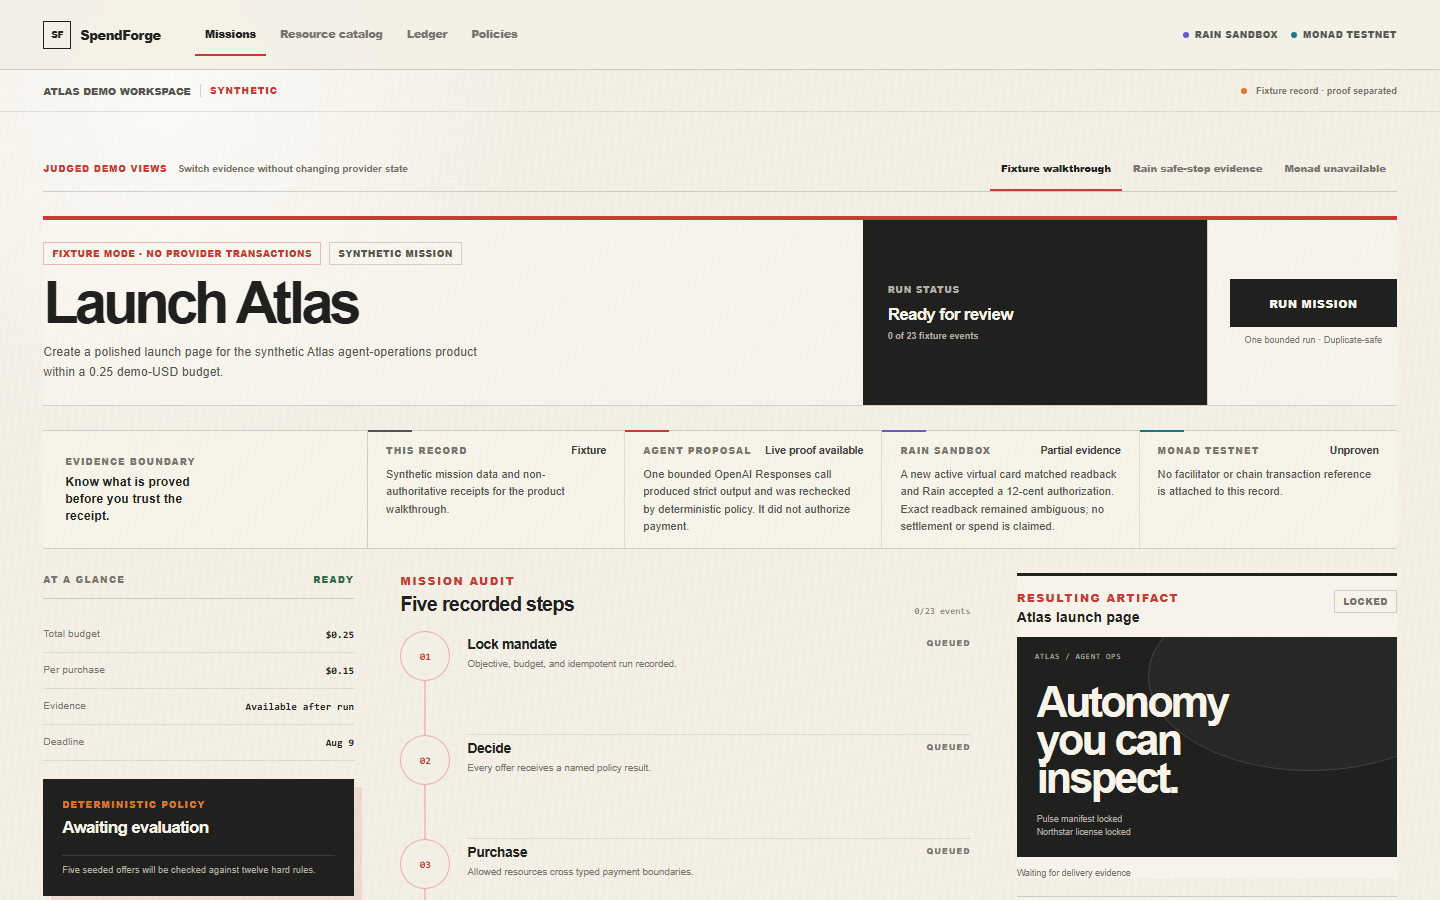
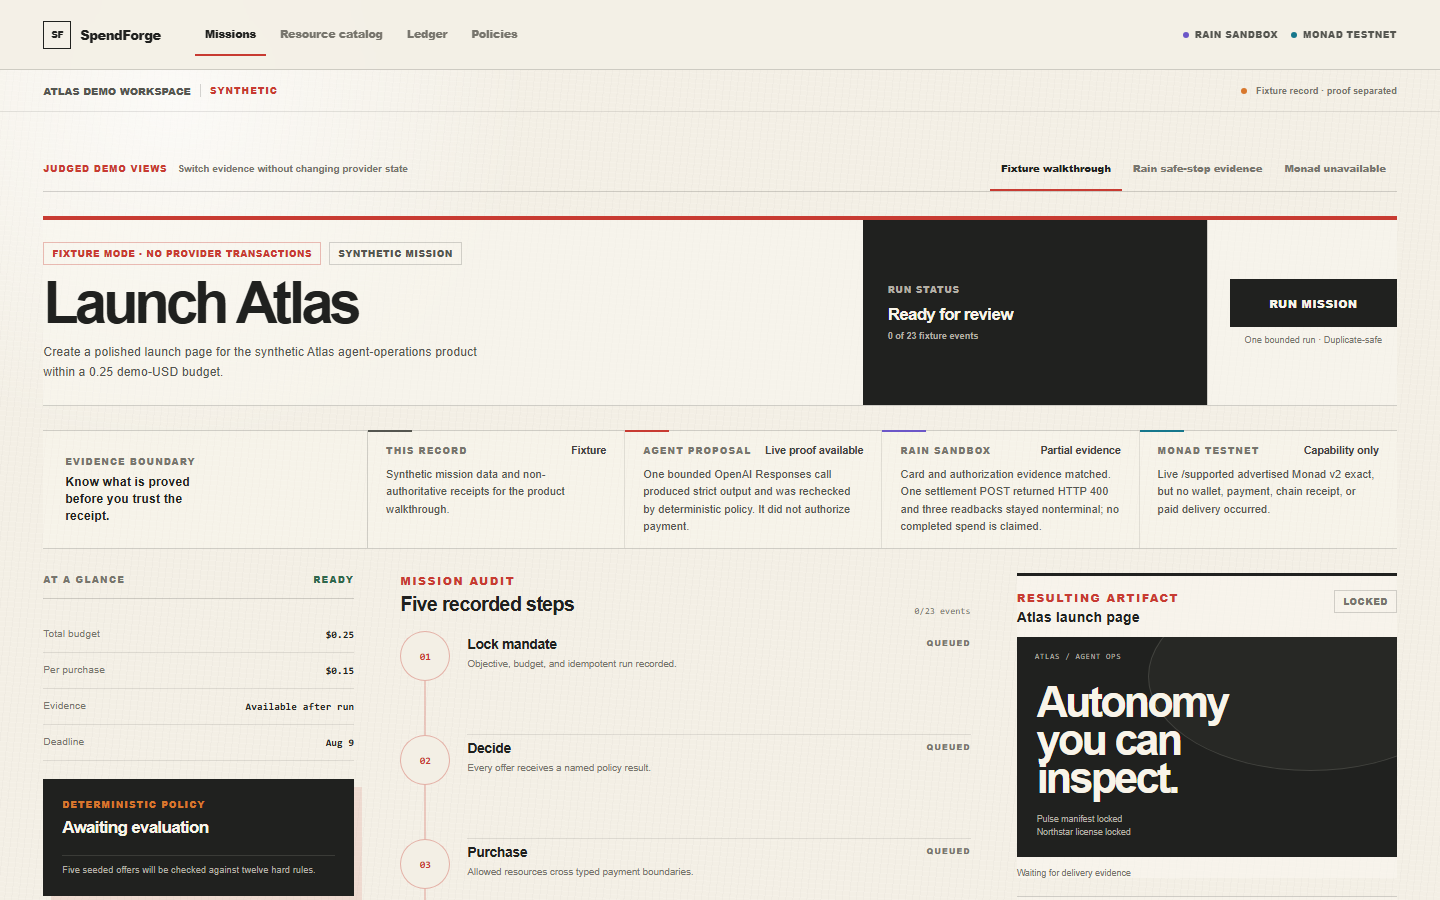
fix: align evidence and harden release verification

Changed region(s): [[0.625, 0.4978, 0.7812, 0.5911], [0.8125, 0.4978, 0.9688, 0.5911]]

diff --git a/src/lib/integrations/rain/northstar-proof.ts b/src/lib/integrations/rain/northstar-proof.ts
@@ -155,6 +155,25 @@ type ProviderCall = {
   responseShape: ReturnType<typeof captureResponseShape>;
 };
 
+const settlement400Codes = [
+  [/already settled/i, "SETTLE_400_ALREADY_SETTLED"],
+  [/already closed/i, "SETTLE_400_ALREADY_CLOSED"],
+  [/no card associated/i, "SETTLE_400_NO_CARD_ASSOCIATION"],
+  [/processor id/i, "SETTLE_400_NO_PROCESSOR_ID"],
+] as const;
+
+function classifySettlement400(payload: unknown): string {
+  const message =
+    typeof payload === "object" && payload !== null && "message" in payload
+      ? (payload as { message?: unknown }).message
+      : undefined;
+  if (typeof message !== "string") return "SETTLE_400_UNRECOGNIZED";
+  return (
+    settlement400Codes.find(([pattern]) => pattern.test(message))?.[1] ??
+    "SETTLE_400_UNRECOGNIZED"
+  );
+}
+
 export type RainNorthstarProofResult = {
   receipt: AuditReceipt;
   providerCalls: number;
@@ -904,6 +923,13 @@ export async function executeRainNorthstarProof(input: {
     settlementParsed.data.transactionId === recoveredTransactionId &&
     settlementParsed.data.status === "settled" &&
     settlementParsed.data.completionReason === "SETTLEMENT";
+  const settlement400Code =
+    settlementResponse.status === 400
+      ? classifySettlement400(settlementResponse.payload)
+      : undefined;
+  const settlementRejected =
+    settlementResponse.status === 400 &&
+    settlement400Code !== "SETTLE_400_UNRECOGNIZED";
   await appendDurableOperationState({
     store,
     scopeFingerprint: RAIN_NORTHSTAR_RUN_SCOPE,
@@ -912,7 +938,9 @@ export async function executeRainNorthstarProof(input: {
       state: settlementResponseMatched ? "provider-accepted" : "readback-pending",
       truthBoundary: settlementResponseMatched
         ? "sandbox-unconfirmed"
-        : "provider-ambiguous",
+        : settlementRejected
+          ? "provider-failed"
+          : "provider-ambiguous",
       providerHttpStatus: settlementResponse.status,
       providerCorrelationRef: maskProviderReference("rain_transaction", recoveredTransactionId),
       responseShape: settlementResponse.responseShape,
@@ -926,7 +954,13 @@ export async function executeRainNorthstarProof(input: {
       },
       evidenceCodes: settlementResponseMatched
         ? ["SETTLEMENT_RESPONSE_VALIDATED", "DIRECT_READBACK_REQUIRED"]
-        : ["SETTLEMENT_RESPONSE_AMBIGUOUS", "DIRECT_READBACK_REQUIRED"],
+        : [
+            ...(settlement400Code ? [settlement400Code] : []),
+            settlementRejected
+              ? "SETTLEMENT_PROVIDER_REJECTED"
+              : "SETTLEMENT_RESPONSE_AMBIGUOUS",
+            "DIRECT_READBACK_REQUIRED",
+          ],
     }),
   });
 
@@ -1570,6 +1604,13 @@ export async function executeRainNorthstarResume(input: {
     settlementParsed.data.transactionId === recovered.transactionId &&
     settlementParsed.data.status === "settled" &&
     settlementParsed.data.completionReason === "SETTLEMENT";
+  const settlement400Code =
+    settlementResponse.status === 400
+      ? classifySettlement400(settlementResponse.payload)
+      : undefined;
+  const settlementRejected =
+    settlementResponse.status === 400 &&
+    settlement400Code !== "SETTLE_400_UNRECOGNIZED";
   await appendDurableOperationState({
     store,
     scopeFingerprint: RAIN_NORTHSTAR_RUN_SCOPE,
@@ -1578,7 +1619,9 @@ export async function executeRainNorthstarResume(input: {
       state: settlementResponseMatched ? "provider-accepted" : "readback-pending",
       truthBoundary: settlementResponseMatched
         ? "sandbox-unconfirmed"
-        : "provider-ambiguous",
+        : settlementRejected
+          ? "provider-failed"
+          : "provider-ambiguous",
       providerHttpStatus: settlementResponse.status,
       providerCorrelationRef: maskProviderReference(
         "rain_transaction",
@@ -1595,7 +1638,13 @@ export async function executeRainNorthstarResume(input: {
       },
       evidenceCodes: settlementResponseMatched
         ? ["SETTLEMENT_RESPONSE_VALIDATED", "DIRECT_READBACK_REQUIRED"]
-        : ["SETTLEMENT_RESPONSE_AMBIGUOUS", "NO_MUTATION_RETRY"],
+        : [
+            ...(settlement400Code ? [settlement400Code] : []),
+            settlementRejected
+              ? "SETTLEMENT_PROVIDER_REJECTED"
+              : "SETTLEMENT_RESPONSE_AMBIGUOUS",
+            "NO_MUTATION_RETRY",
+          ],
     }),
   });
 

diff --git a/src/lib/operations/receipt.ts b/src/lib/operations/receipt.ts
@@ -144,7 +144,7 @@ export function buildAuditReceipt(
         : truthBoundary.includes("authoritative")
           ? "AUTHORITATIVE_READBACK_ATTACHED"
           : "PROVIDER_OUTCOME_NOT_TERMINAL",
-    journalHash: deriveEvidenceFingerprint(JSON.stringify(operations)),
+    journalHash: deriveSafeJournalHash(JSON.stringify(operations)),
     summary: {
       operationCount: latest.length,
       mutationCount: mutationRefs.size,
@@ -156,6 +156,28 @@ export function buildAuditReceipt(
 
   assertUiSafePayload(receipt);
   return receipt;
+}
+
+/**
+ * A SHA-256 digest is public-safe, but a hexadecimal digest can occasionally
+ * contain a 13–19 digit Luhn-valid run and trigger the defense-in-depth PAN
+ * scanner. Keep the strict fingerprint schema while deterministically
+ * domain-separating the digest until its public representation is scanner-safe.
+ */
+function deriveSafeJournalHash(serializedOperations: string): string {
+  for (let salt = 0; salt < 64; salt += 1) {
+    const candidate = deriveEvidenceFingerprint(
+      `spendforge-public-journal:${salt}:${serializedOperations}`,
+    );
+    try {
+      assertUiSafePayload(candidate, "journalHash");
+      return candidate;
+    } catch {
+      // A rare PAN-shaped digest is discarded; no provider or payload value is
+      // exposed, and the next deterministic domain separator is tried.
+    }
+  }
+  throw new Error("Unable to derive a scanner-safe journal hash");
 }
 
 function operationClone(entry: OperationJournalEntry): OperationJournalEntry {

diff --git a/docs/JUDGING-MAP.md b/docs/JUDGING-MAP.md
@@ -70,8 +70,8 @@ Allowed:
   independently verified it.”
 - “Rain Sandbox issued and read back a fresh active virtual card, then accepted
   a 12-cent authorization.”
-- “SpendForge blocked settlement because exact transaction reconciliation was
-  unresolved.”
+- “SpendForge submitted settlement exactly once; Rain returned HTTP 400 and
+  readbacks stayed nonterminal, so no completed spend is claimed.”
 - “Historical Rain funding returned HTTP 202 with no causal identifier.”
 - “The Preview-only append-only journal and duplicate barrier are proven.”
 - “Monad is an official-package, fake-contract path with no live testnet call.”

diff --git a/docs/RAIN-WORKFLOW-VERDICT.md b/docs/RAIN-WORKFLOW-VERDICT.md
@@ -47,6 +47,12 @@ API drift and the still-unresolved executor/readback boundary prevented an
 authoritative causal match. SpendForge records this as ambiguity rather than
 guessing.
 
+The prior settlement capture retained only a redacted response shape, so its
+HTTP 400 cause cannot be recovered retroactively. Future bounded attempts
+classify only the four documented 400 message families when a provider message
+is actually returned; an absent or unrecognized message remains ambiguous and
+still cannot trigger a mutation retry.
+
 Official sources:
 
 - [Rain OpenAPI](https://rain-sandbox-trial.mintlify.site/openapi.json)
